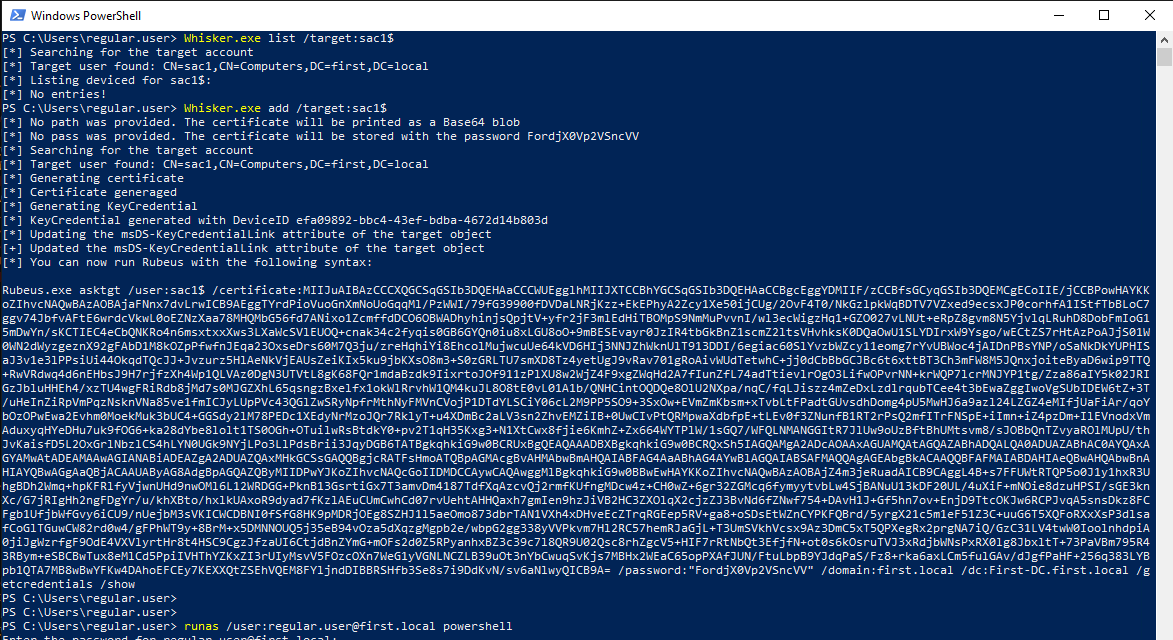
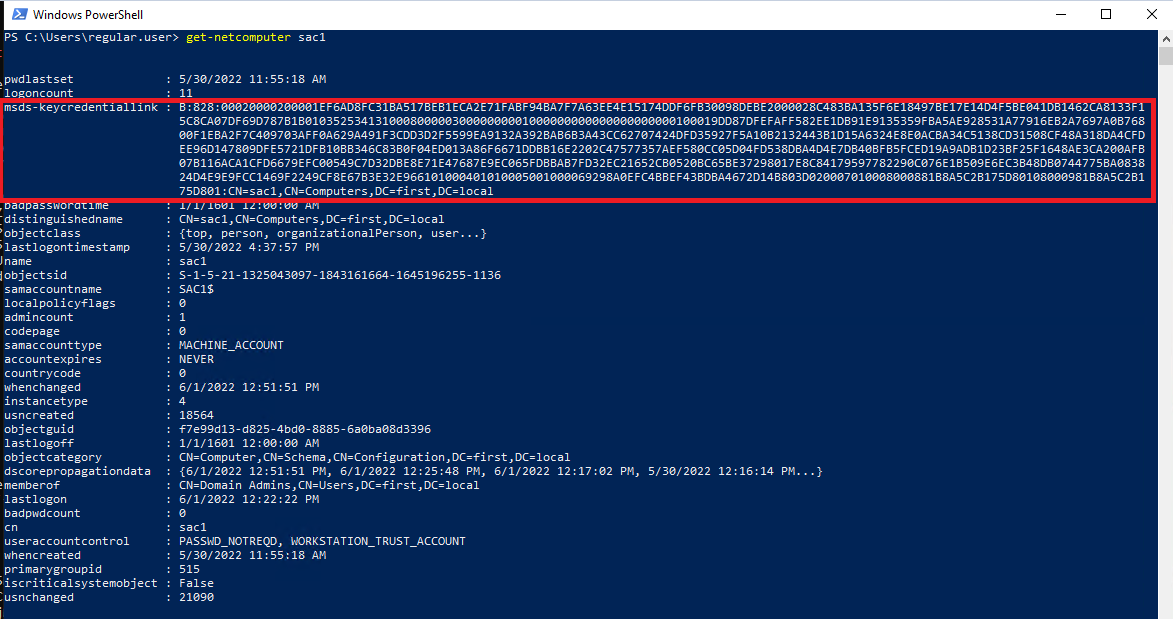
GitBook: [#1835] No subject

diff --git a/offensive-security-experiments/active-directory-kerberos-abuse/shadow-credentials.md b/offensive-security-experiments/active-directory-kerberos-abuse/shadow-credentials.md
@@ -4,25 +4,25 @@ description: Persistence, lateral movement
 
 # Shadow Credentials
 
-This is a quick lab to familiarize with a technique called [Shadow Credentials](https://posts.specterops.io/shadow-credentials-abusing-key-trust-account-mapping-for-takeover-8ee1a53566ab) written about by [Elad Shamir](https://medium.com/@elad.shamir?source=post\_page-----8ee1a53566ab--------------------------------). This technique allows an attacker to take over an AD user or computer account if the attacker can modify the target AD object's (user or computer account) attribute `msDS-KeyCredentialLink`.
+This is a quick lab to familiarize with a technique called [Shadow Credentials](https://posts.specterops.io/shadow-credentials-abusing-key-trust-account-mapping-for-takeover-8ee1a53566ab) written about by [Elad Shamir](https://medium.com/@elad.shamir?source=post\_page-----8ee1a53566ab--------------------------------). This technique allows an attacker to take over an AD user or computer account if the attacker can modify the target object's (user or computer account) attribute `msDS-KeyCredentialLink` and append it with alternate credentials in the form of certificates.
 
 Read Elad Shamir's post to learn more about the inner-workings of the technique.
 
 ## Lab Overview
 
-* `SAC1$` - is a computer account that is misconfigured and vulnerable for a takeover. `Everyone` can edit its attribute `msDS-KeyCredentialLink`. This account is member of Domain Admins group, therefore this is the account that we will take over in this lab, to compromise the AD domain.
+* `SAC1$` - is a computer account that is misconfigured and can be taken over. `Everyone` can edit its attribute `msDS-KeyCredentialLink`. This account is member of Domain Admins group, therefore this is the account that we will take over in this lab, effectively elevating privileges to Domain Admin.
 
 ![Everyone is allowed to write to SAC1$ computer account object](<../../.gitbook/assets/image (1084).png>)
 
-* `regular.user` - a low privileged user that we will use to execute the technique.
-* `user-server` - computer from which the technique will be executed with privileges of `regular.user`.
-* `first-dc` - domain controller that we will compromise using a compromised sac1$ computer account.
+* `regular.user` - a low privileged user that we will use to execute the technique from.
+* `user-server` - the computer from which the technique will be executed with privileges of `regular.user`.
+* `first-dc` - domain controller that we will compromise using a compromised `sac1$` computer account.
 
 ## Walkthrough
 
-Since `Everyone` is allowed to WRITE to the `SAC1$` computer account (as mentioned in the lab overview section), we can execute the technique from any low privileged user's security context.
+Since `Everyone` is allowed to `WRITE` to the `SAC1$` computer account (as mentioned in the lab overview section), we can execute the technique from any low privileged user's security context.
 
-Let's add the shadow credentials (they will be added by modifying the `msDS-KeyCredentialLink` attribute) to the vulnerable computer account `sac1$` using the tool called [whisker](https://github.com/eladshamir/Whisker) like so:
+Let's add the shadow credentials (they will be added by modifying the `msDS-KeyCredentialLink` attribute) to the vulnerable computer account `sac1$` using a tool called [whisker](https://github.com/eladshamir/Whisker):
 
 {% code title="regular.user@first.local" %}
 ```
@@ -30,9 +30,11 @@ Whisker.exe add /target:sac1$
 ```
 {% endcode %}
 
-Below shows that whisker successfully updated the `msDS-KeyCredentialLink` attribute and effectively added shadow credentials to that account. At the same time, whisker spits out rubeus command that we can then use against the targeted account `sac1$` to reveal its NTLM hash:
+Below shows that whisker successfully updated the `msDS-KeyCredentialLink` attribute and added shadow credentials for that account.&#x20;
 
-![Adding shadow credentials to sac1$ computer account](<../../.gitbook/assets/image (1089).png>)
+At the same time, whisker spits out rubeus command that we can then use against the target account `sac1$` to reveal its NTLM hash:
+
+![Adding shadow credentials to sac1$ computer account](<../../.gitbook/assets/image (1089) (1).png>)
 
 After the shadow credential has been added to the account, we can confirm that the `msDS-KeyCredentialLink` was indeed added/written to. Let's check it:
 
@@ -42,7 +44,7 @@ get-netcomputer sac1
 ```
 {% endcode %}
 
-![SAC1$ with shadow credential set](<../../.gitbook/assets/image (1083).png>)
+![SAC1$ with shadow credential set in the attribute msDS-KeyCredentialLink](<../../.gitbook/assets/image (1089).png>)
 
 We're now ready to take over the `sac1$` computer account. Before that, let's confirm we cannot access the c$ share on the domain controller `first-dc.first.local` with `regular.user` privileges:
 
